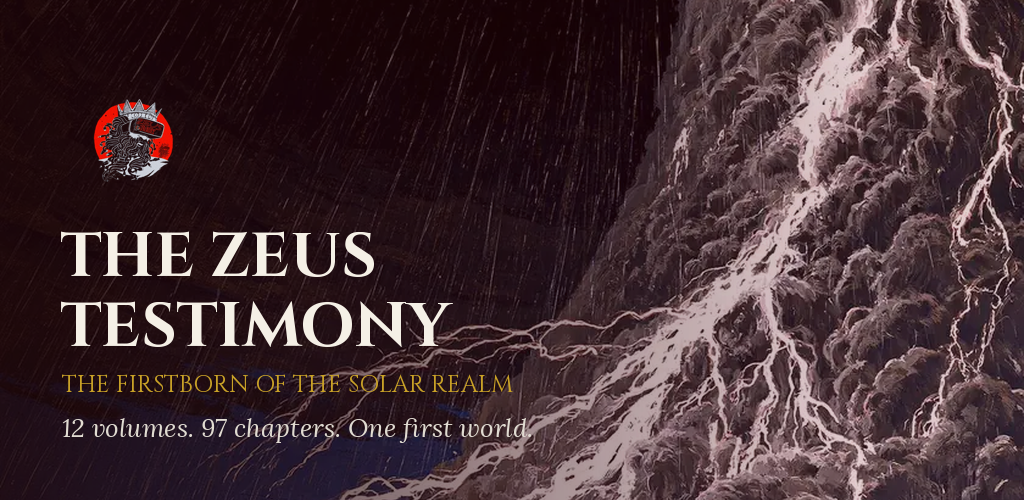
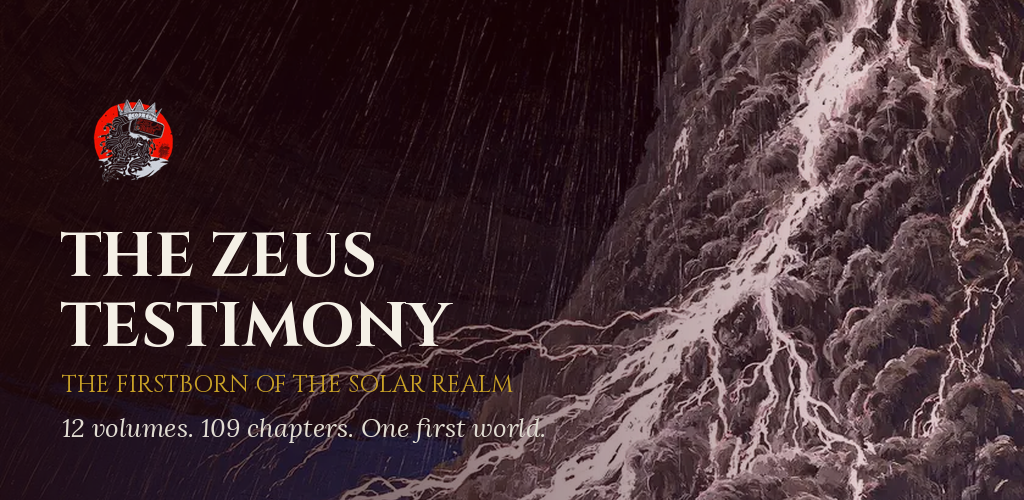
v2.4.0: 12 story chapters (109 total) with illustrations
The cosmic microwave background, the Orion Nebula's proplyds, Romer measuring
the speed of light with Io, the Murchison meteorite's presolar grains, Neptune
found by calculation, Snowball Earth, Halley's Comet and Jupiter's delay,
shadow transits, the Galileo probe's dry hot spot, Prometheus, the Golden
Record and Pale Blue Dot, and the Seasons of a Life.

Claude-Session: https://claude.ai/code/session_01SLJxv3LMu86HmnE1Ybuoap

Changed region(s): [[0.1875, 0.84, 0.5312, 0.9]]

diff --git a/doc/images.md b/doc/images.md
@@ -7,7 +7,7 @@ supplied shows a styled placeholder, so you can add them gradually. Run
 ## Specification
 - Format: **WebP** (Android Studio: right-click image > Convert to WebP, quality 80).
 - Size: any orientation. Images are stored at most 900 px wide and 1500 px tall. Chapter and volume headers show the WHOLE image framed over a blurred copy of itself, so portrait, square and landscape art all display uncropped. Volume list thumbnails crop toward the top.
-- Weight: keep each under ~300 KB (the validator warns above 360 KB). The current 110 images total about 19 MB, well under Play's 200 MB AAB limit.
+- Weight: keep each under ~300 KB (the validator warns above 360 KB). The current 122 images total about 21 MB, well under Play's 200 MB AAB limit.
 - Keep important subject matter in the centre; the volume list crops thumbnails to a tall strip.
 
 ## Rights (Play policy: Intellectual Property)
@@ -29,7 +29,8 @@ film/game franchise.
 | `v01_c06.webp` | Vol 1 Ch 5: The Age Written in Lead |
 | `v01_c07.webp` | Vol 1 Ch 6: The Seeds in the Cold |
 | `v01_c08.webp` | Vol 1 Ch 7: The Lost Siblings of the Sun |
-| `v01_c04.webp` | Vol 1 Ch 8: The Order of the Testimony |
+| `v01_c09.webp` | Vol 1 Ch 8: The Whisper of the First Light |
+| `v01_c04.webp` | Vol 1 Ch 9: The Order of the Testimony |
 | `vol_02.webp` | **Volume 2**: The Disk of Becoming |
 | `v02_c01.webp` | Vol 2 Ch 1: The Spinning Veil |
 | `v02_c02.webp` | Vol 2 Ch 2: The Line of Frost |
@@ -38,7 +39,8 @@ film/game franchise.
 | `v02_c06.webp` | Vol 2 Ch 5: The Children of Other Stars |
 | `v02_c07.webp` | Vol 2 Ch 6: The Giants Who Fell into the Fire |
 | `v02_c08.webp` | Vol 2 Ch 7: The Gentle Gathering |
-| `v02_c04.webp` | Vol 2 Ch 8: Wisdom of the Small Things |
+| `v02_c09.webp` | Vol 2 Ch 8: The Nursery in Orion |
+| `v02_c04.webp` | Vol 2 Ch 9: Wisdom of the Small Things |
 | `vol_03.webp` | **Volume 3**: The Firstborn |
 | `v03_c01.webp` | Vol 3 Ch 1: The Seed of the King |
 | `v03_c02.webp` | Vol 3 Ch 2: The Claiming of the First World |
@@ -48,6 +50,7 @@ film/game franchise.
 | `v03_c06.webp` | Vol 3 Ch 6: The Weight of the King |
 | `v03_c07.webp` | Vol 3 Ch 7: The Star That Was Not Lit |
 | `v03_c08.webp` | Vol 3 Ch 8: The Year Star |
+| `v03_c09.webp` | Vol 3 Ch 9: The King Who Measured Light |
 | `vol_04.webp` | **Volume 4**: The Wall Between the Realms |
 | `v04_c01.webp` | Vol 4 Ch 1: The Gap in the Disk |
 | `v04_c02.webp` | Vol 4 Ch 2: The Two Treasuries |
@@ -56,7 +59,8 @@ film/game franchise.
 | `v04_c06.webp` | Vol 4 Ch 5: The Unfinished World |
 | `v04_c07.webp` | Vol 4 Ch 6: Ceres, the Dwarf at the Door |
 | `v04_c08.webp` | Vol 4 Ch 7: The Iron Hearts |
-| `v04_c04.webp` | Vol 4 Ch 8: The Wisdom of Boundaries |
+| `v04_c09.webp` | Vol 4 Ch 8: The Stone Older Than the Sun |
+| `v04_c04.webp` | Vol 4 Ch 9: The Wisdom of Boundaries |
 | `vol_05.webp` | **Volume 5**: The Wandering of Giants |
 | `v05_c01.webp` | Vol 5 Ch 1: The Descent Toward the Sun |
 | `v05_c02.webp` | Vol 5 Ch 2: The Brother Who Came After |
@@ -66,6 +70,7 @@ film/game franchise.
 | `v05_c06.webp` | Vol 5 Ch 6: The Far Dark |
 | `v05_c07.webp` | Vol 5 Ch 7: The Visitors from Other Stars |
 | `v05_c08.webp` | Vol 5 Ch 8: The Sentinels of the Edge |
+| `v05_c09.webp` | Vol 5 Ch 9: The World Found with a Pen |
 | `vol_06.webp` | **Volume 6**: The Forging of Gaia |
 | `v06_c01.webp` | Vol 6 Ch 1: The Rubble of the Inner Realm |
 | `v06_c02.webp` | Vol 6 Ch 2: The Collision of Theia |
@@ -75,6 +80,7 @@ film/game franchise.
 | `v06_c06.webp` | Vol 6 Ch 6: The Breath of the Small Ones |
 | `v06_c07.webp` | Vol 6 Ch 7: The Day the Sky Fell |
 | `v06_c08.webp` | Vol 6 Ch 8: The Stone of Africa |
+| `v06_c09.webp` | Vol 6 Ch 9: The Snowball Earth |
 | `vol_07.webp` | **Volume 7**: The Aegis |
 | `v07_c01.webp` | Vol 7 Ch 1: The Shield Unseen |
 | `v07_c02.webp` | Vol 7 Ch 2: The Day of the Twenty-One Fragments |
@@ -83,7 +89,8 @@ film/game franchise.
 | `v07_c06.webp` | Vol 7 Ch 5: The Arrow That Moved a Moon |
 | `v07_c07.webp` | Vol 7 Ch 6: The Stones That Got Through |
 | `v07_c08.webp` | Vol 7 Ch 7: The Watch of the Southern Sky |
-| `v07_c04.webp` | Vol 7 Ch 8: The Wisdom of Protection |
+| `v07_c09.webp` | Vol 7 Ch 8: The Comet Who Kept Its Promise |
+| `v07_c04.webp` | Vol 7 Ch 9: The Wisdom of Protection |
 | `vol_08.webp` | **Volume 8**: The Court of Moons |
 | `v08_c01.webp` | Vol 8 Ch 1: Io the Burning |
 | `v08_c02.webp` | Vol 8 Ch 2: Europa the Hidden Sea |
@@ -94,6 +101,7 @@ film/game franchise.
 | `v08_c07.webp` | Vol 8 Ch 7: The Breath of Europa |
 | `v08_c08.webp` | Vol 8 Ch 8: The Lake of the Trickster |
 | `v08_c09.webp` | Vol 8 Ch 9: The Dance of Tides |
+| `v08_c10.webp` | Vol 8 Ch 10: The Shadows on the King |
 | `vol_09.webp` | **Volume 9**: The Storms of the Thunderer |
 | `v09_c01.webp` | Vol 9 Ch 1: The Eye That Does Not Close |
 | `v09_c02.webp` | Vol 9 Ch 2: The Bands of the Thunderer |
@@ -103,6 +111,7 @@ film/game franchise.
 | `v09_c06.webp` | Vol 9 Ch 6: The Great Blue Spot |
 | `v09_c07.webp` | Vol 9 Ch 7: The Rain of Helium |
 | `v09_c08.webp` | Vol 9 Ch 8: The Lights at the Poles |
+| `v09_c09.webp` | Vol 9 Ch 9: The Desert in the Clouds |
 | `vol_10.webp` | **Volume 10**: The Legacy Myths |
 | `v10_c01.webp` | Vol 10 Ch 1: What the Ancients Sang |
 | `v10_c02.webp` | Vol 10 Ch 2: The Swallowing Father |
@@ -112,6 +121,7 @@ film/game franchise.
 | `v10_c06.webp` | Vol 10 Ch 6: The Eagle, the Oak and the Thunderbolt |
 | `v10_c07.webp` | Vol 10 Ch 7: The Statue at Olympia |
 | `v10_c08.webp` | Vol 10 Ch 8: Metis, the Swallowed Wisdom |
+| `v10_c09.webp` | Vol 10 Ch 9: Prometheus and the Stolen Fire |
 | `vol_11.webp` | **Volume 11**: The Watchers of the Sky |
 | `v11_c01.webp` | Vol 11 Ch 1: The Wandering Star |
 | `v11_c02.webp` | Vol 11 Ch 2: The Glass of Galileo |
@@ -121,6 +131,7 @@ film/game franchise.
 | `v11_c06.webp` | Vol 11 Ch 6: The Night of the Great Conjunction |
 | `v11_c07.webp` | Vol 11 Ch 7: The Messenger Who Chose to Fall |
 | `v11_c08.webp` | Vol 11 Ch 8: The Eyes of the Karoo |
+| `v11_c09.webp` | Vol 11 Ch 9: The Golden Record and the Pale Blue Dot |
 | `vol_12.webp` | **Volume 12**: The Book of Wisdom |
 | `v12_c01.webp` | Vol 12 Ch 1: Proverbs of the Firstborn |
 | `v12_c02.webp` | Vol 12 Ch 2: The Path of the Builder |
@@ -129,10 +140,11 @@ film/game franchise.
 | `v12_c06.webp` | Vol 12 Ch 5: The Book of Questions |
 | `v12_c07.webp` | Vol 12 Ch 6: A Letter to the Reader |
 | `v12_c08.webp` | Vol 12 Ch 7: The Daily Watch |
-| `v12_c04.webp` | Vol 12 Ch 8: The Final Anchor |
+| `v12_c09.webp` | Vol 12 Ch 8: The Seasons of a Life |
+| `v12_c04.webp` | Vol 12 Ch 9: The Final Anchor |
 
 ## Source of the current images
-The 110 images were selected by the owner from their own supplied collection (November 2026) and
+The 122 images were selected by the owner from their own supplied collection (November 2026) and
 matched to each chapter's subject. Excluded from that collection: recognisable film, game and anime
 characters (including lightsabers), nudity, religious symbols, and off-theme modern scenes. Small signatures on four images
 were cropped. The owner is responsible for holding the rights to publish every image on Google Play.

diff --git a/doc/status.md b/doc/status.md
@@ -1,7 +1,7 @@
 # Status
 
-- 12 volumes, 97 chapters, 600+ verses, every chapter with an opening epigraph and labelled commentary.
+- 12 volumes, 109 chapters, 700+ verses, every chapter with an opening epigraph and labelled commentary.
 - Bookmarks, highlights (4 colours), My Library, full-text search, verse of the day, per-volume progress, copy/share.
 - Volume -> chapter -> verse reader with continue-reading, text size, cross-volume navigation.
 - Play-readiness: no permissions, no data collection, R8 minification on, env-based signing.
-- Pending: illustrations (all 110 slots filled, see `doc/images.md`), privacy policy hosting, Play Console listing.
+- Pending: illustrations (all 122 slots filled, see `doc/images.md`), privacy policy hosting, Play Console listing.

diff --git a/doc/PRD.md b/doc/PRD.md
@@ -8,7 +8,7 @@ The Zeus Testimony is a 12-volume foundational text that merges astrophysics wit
 - Enthusiasts of narrative-driven, lore-rich reading applications.
 
 ## 3. Major Features
-- **12 Volumes, 97 chapters**: Deep integration of the refactored Theogony into a "Bible-style" format.
+- **12 Volumes, 109 chapters**: Deep integration of the refactored Theogony into a "Bible-style" format.
 - **Labelled commentary**: Science, Myth, History and Wisdom notes attached to verses, so readers can tell established fact from hypothesis from story.
 - **Epic UI/UX**: An immersive, 2026-standard reading environment with custom typography (Cinzel, Lora), rich deep-red color palettes, and sacred design elements.
 

diff --git a/doc/play-store-submission.md b/doc/play-store-submission.md
@@ -68,7 +68,7 @@ as scripture-style verses, from the cold cloud before the Sun to the storms and 
 Its central idea: Jupiter was the first planet to form, so Zeus, the god whose name it carries, is
 the first god of the solar realm to hold a world.
 
-- 12 volumes, 97 chapters, 600+ verses
+- 12 volumes, 109 chapters, 700+ verses
 - Science notes summarising real research, labelled when an idea is still a hypothesis
 - Myth and History notes on Hesiod, Galileo, Voyager, Juno and Europa Clipper
 - Wisdom notes on building, patience, boundaries and endurance

diff --git a/doc/changes.md b/doc/changes.md
@@ -1,5 +1,8 @@
 # Changes
 
+## 2.4.0
+- 12 new story chapters (109 total, 720+ verses): the cosmic microwave background, the Orion Nebula, Romer and the speed of light, the Murchison meteorite, the discovery of Neptune, Snowball Earth, Halley's Comet, shadow transits, the Galileo probe's desert, Prometheus, the Golden Record and Pale Blue Dot, and the Seasons of a Life.
+
 ## 2.3.0
 - Fonts bundled in the app (no Google Play services needed); OFL licences in /licenses.
 - Every chapter epigraph rewritten for variety.
